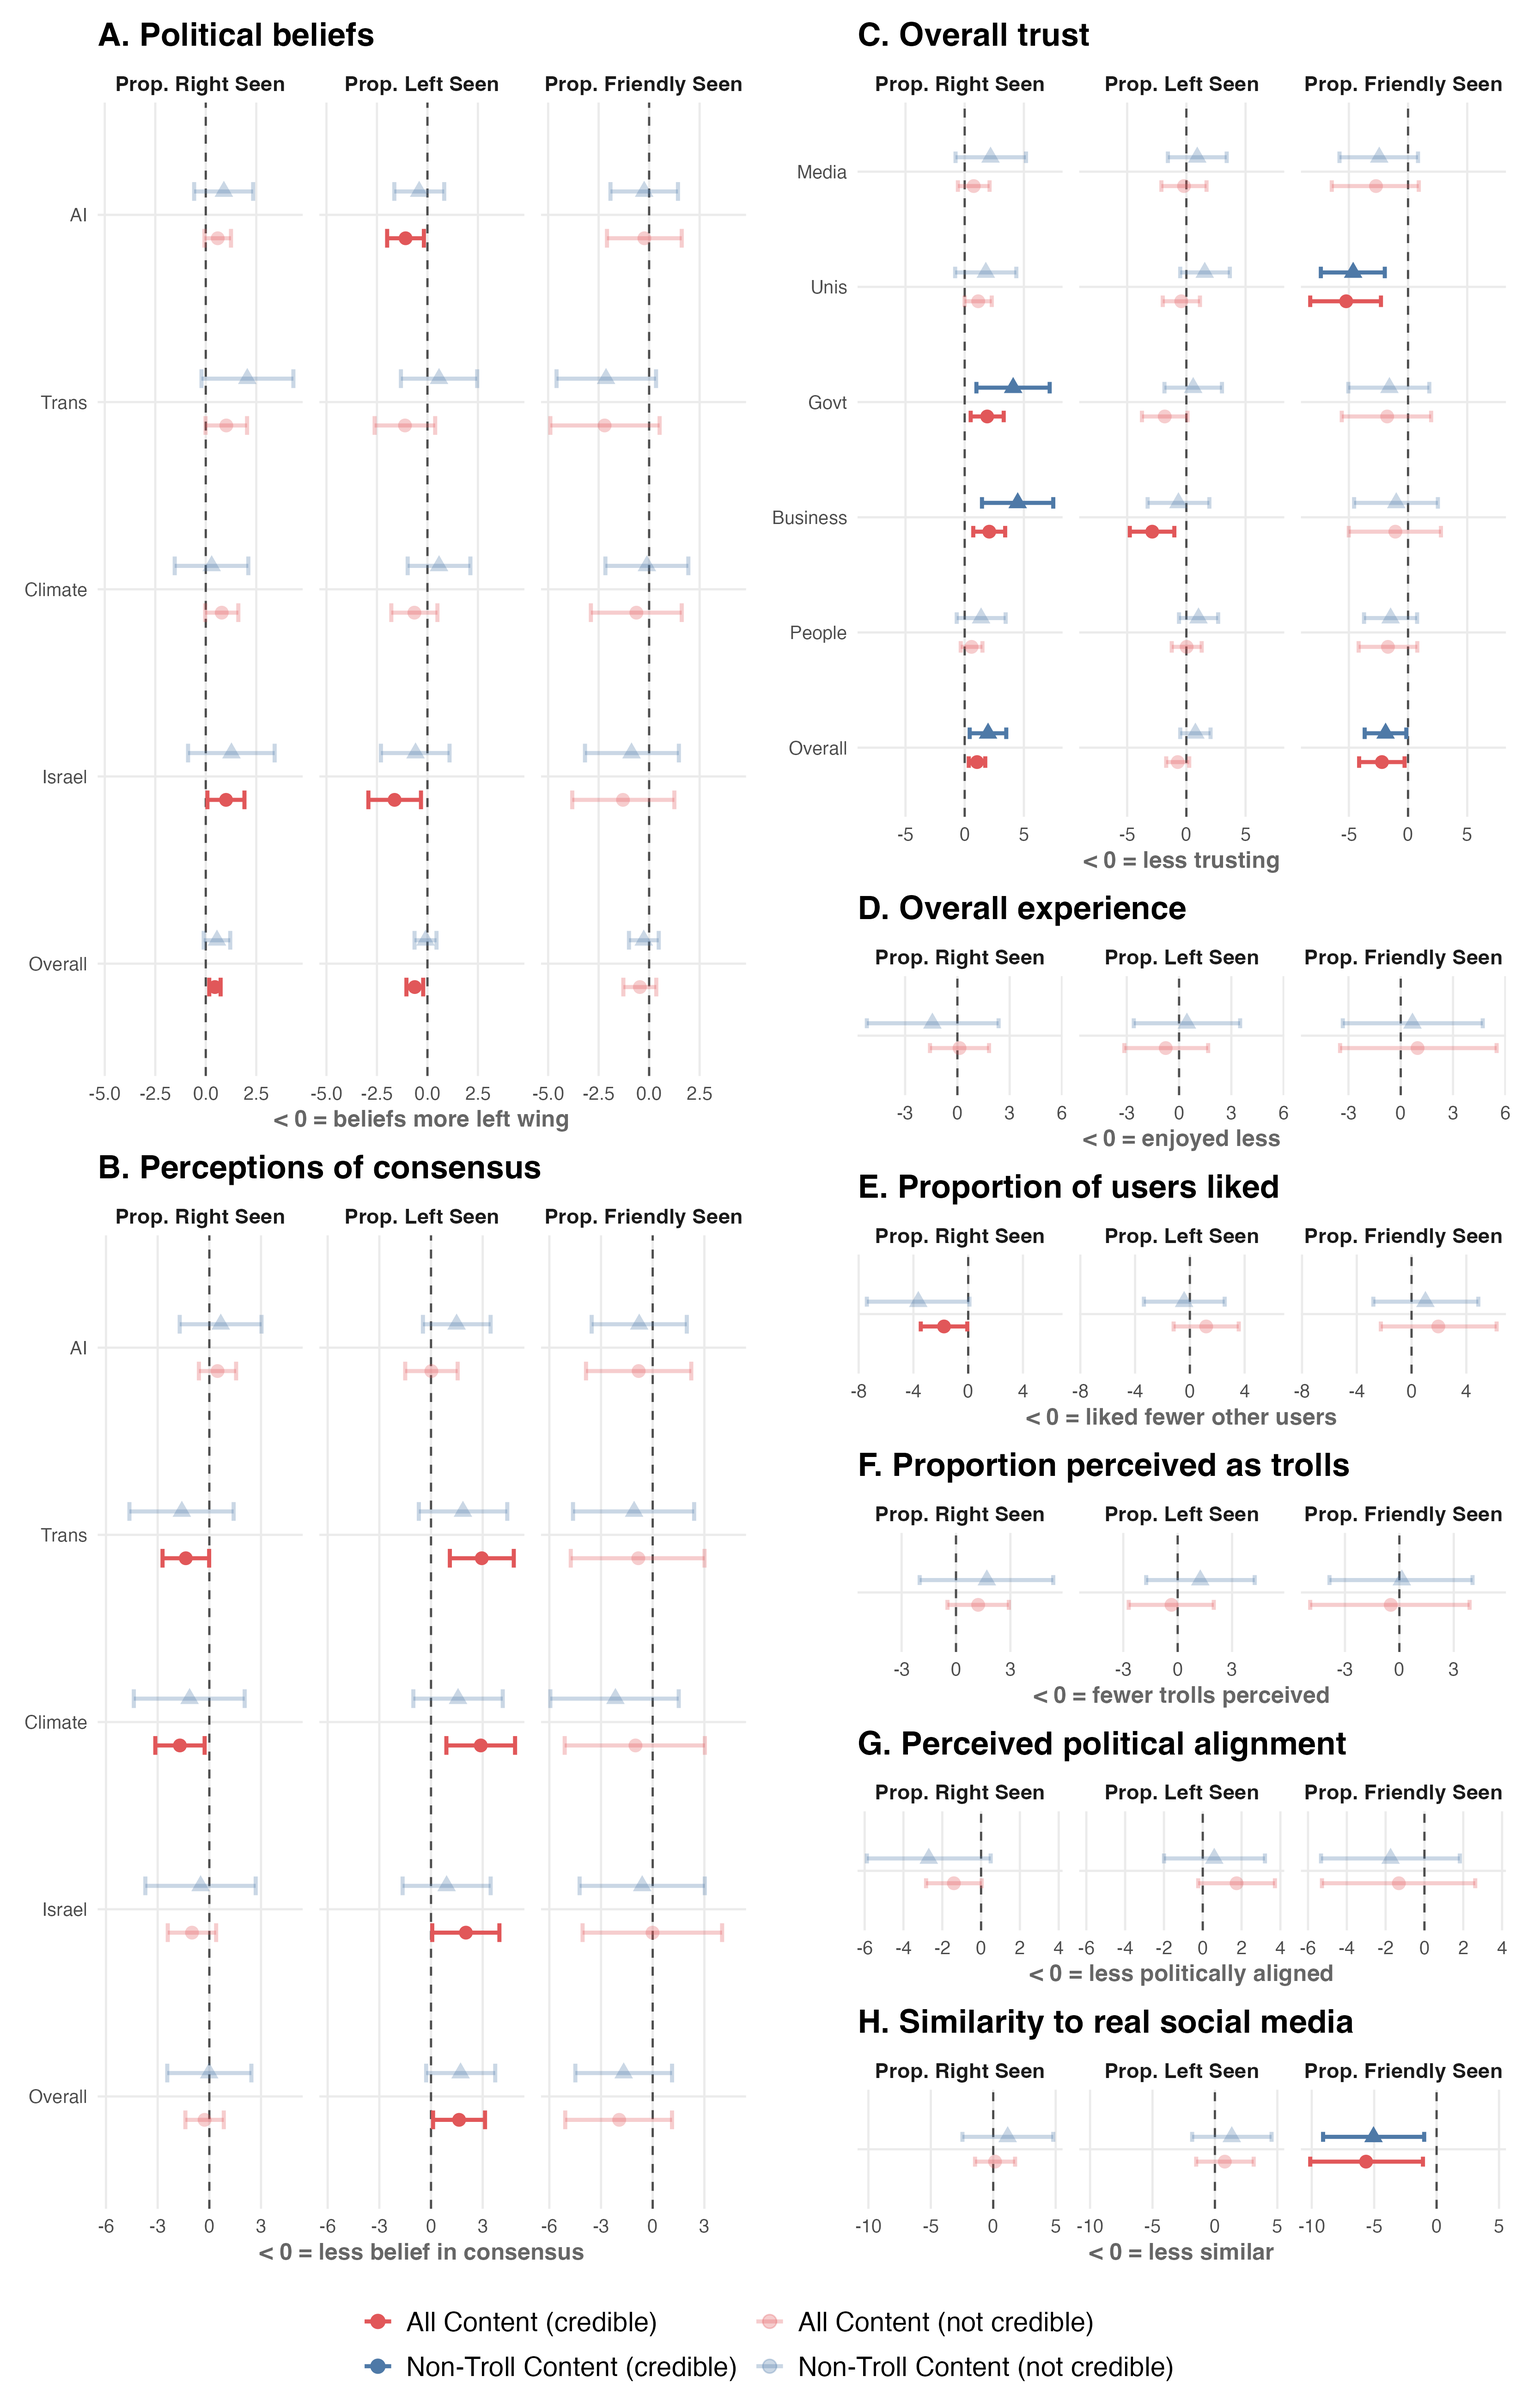
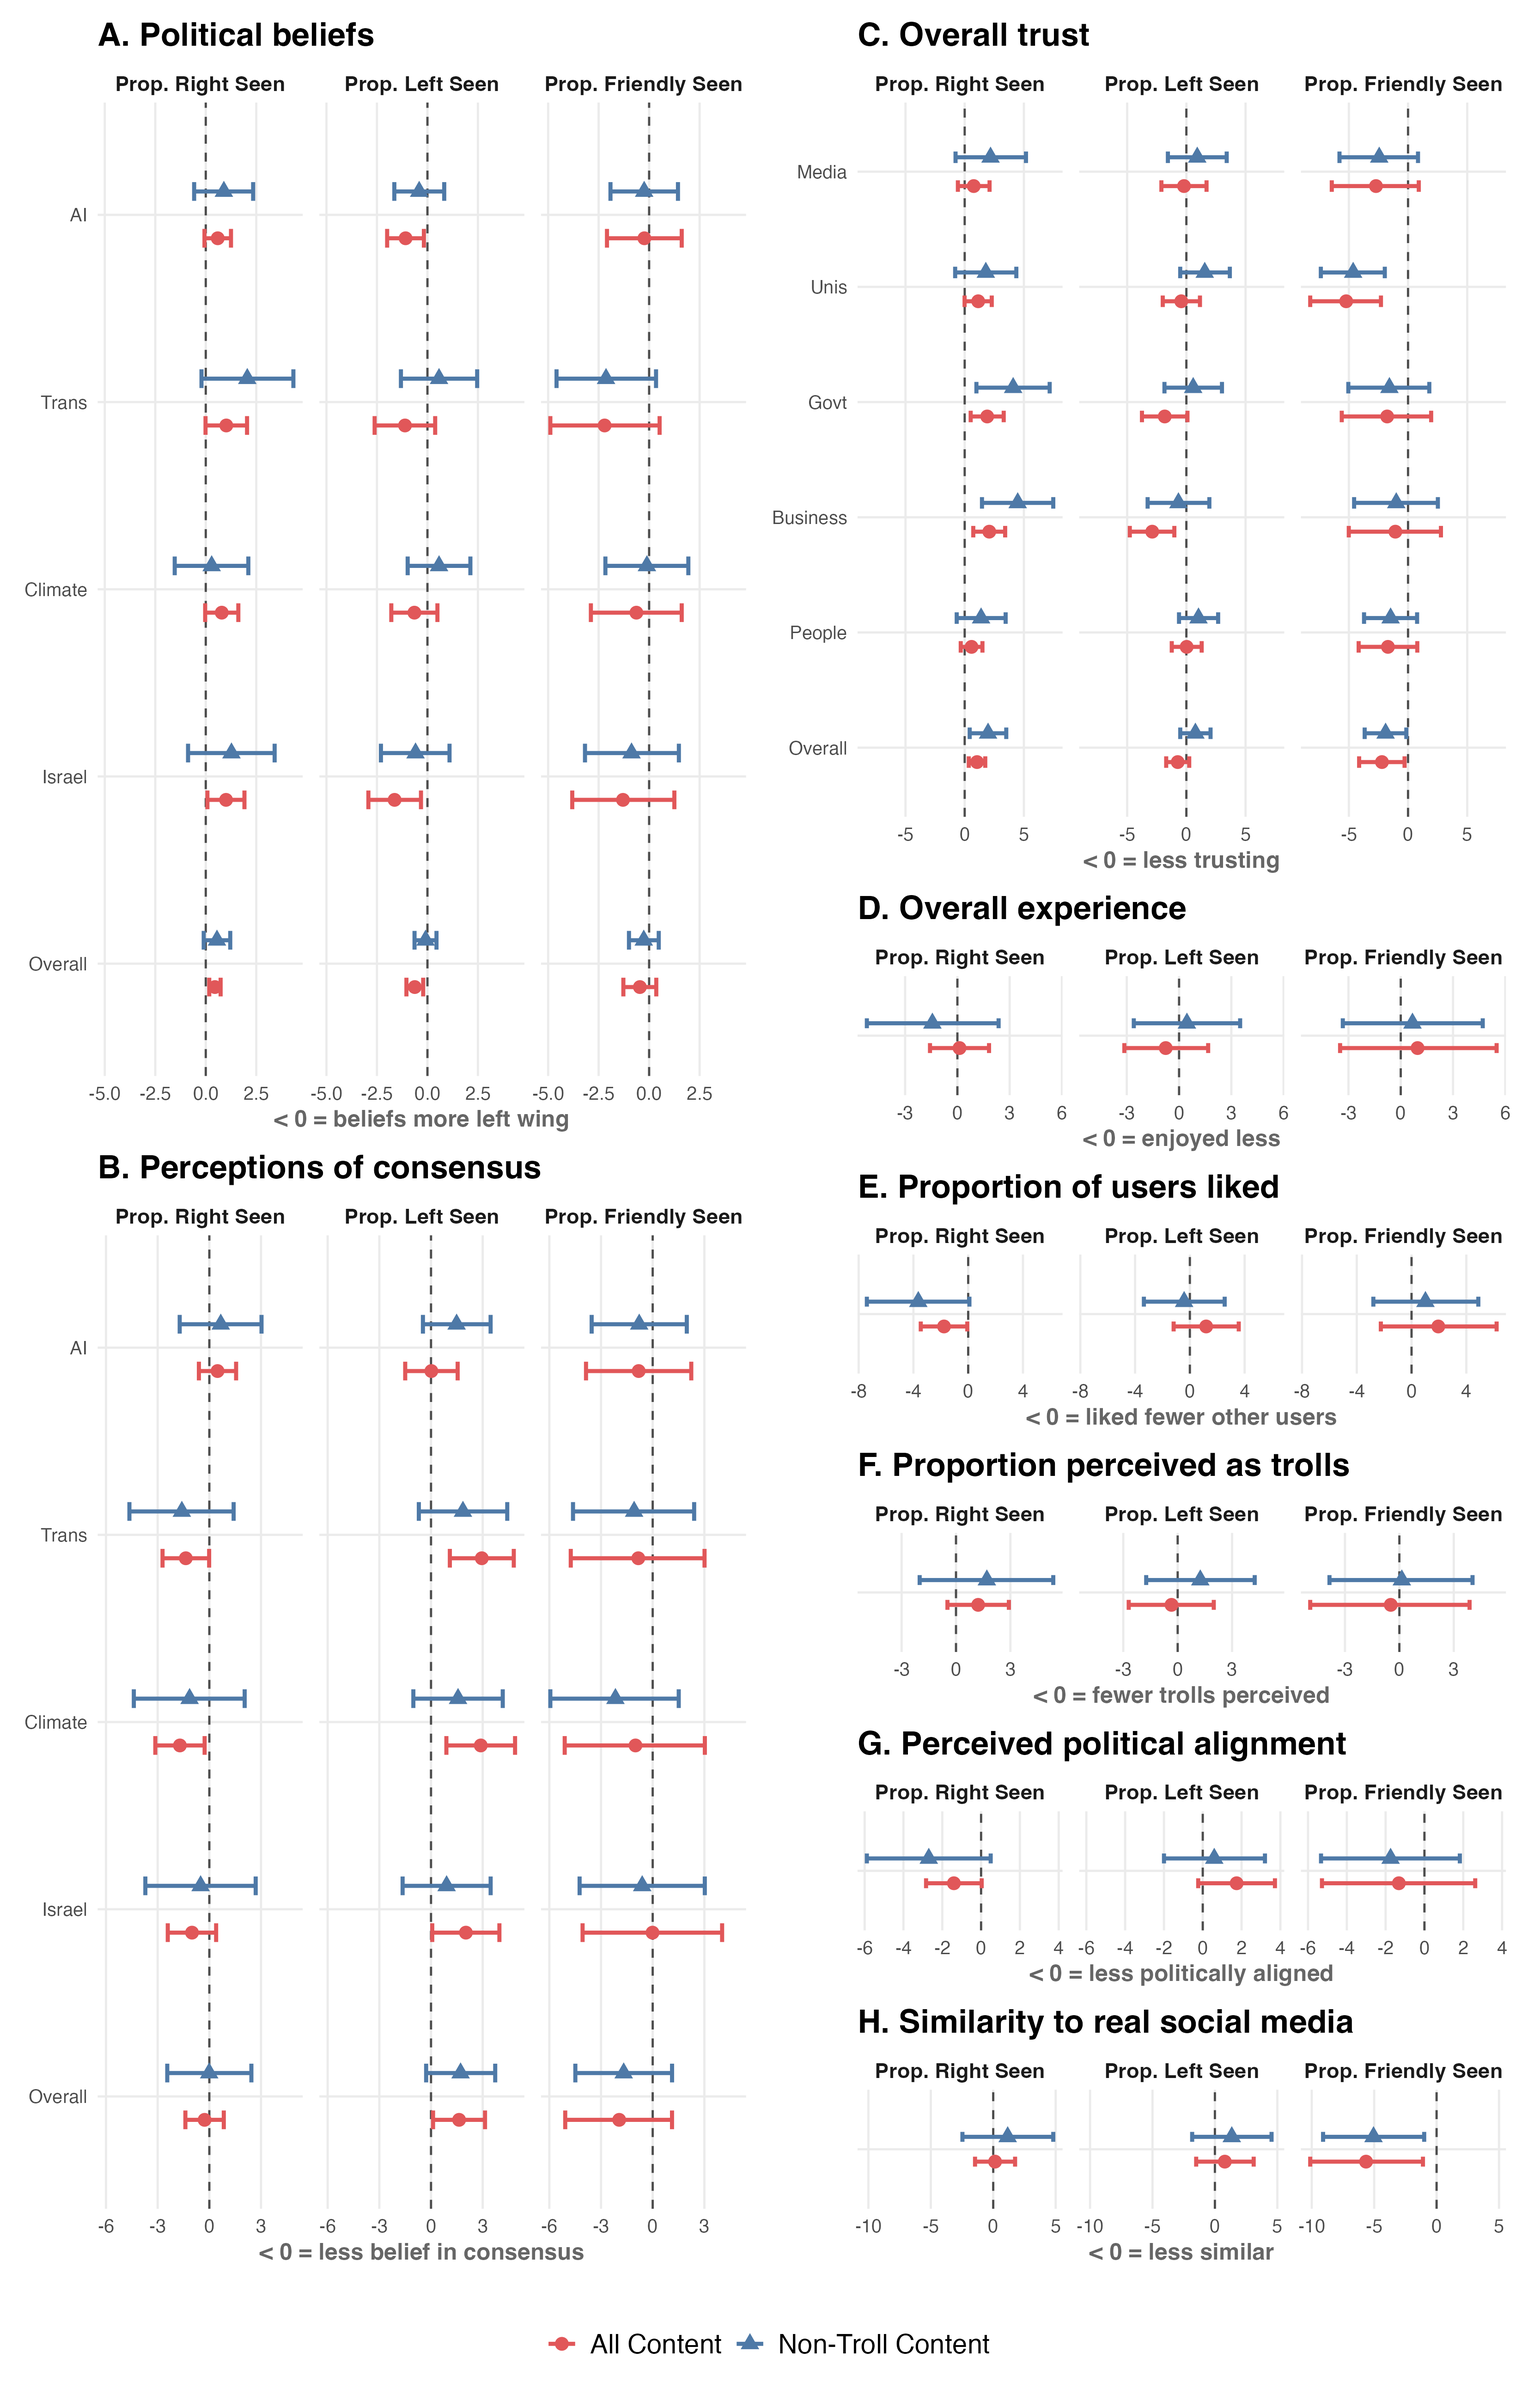
rm transparency in posts-seen

diff --git a/analysis/03_linear-modelling.html b/analysis/03_linear-modelling.html
@@ -200,7 +200,7 @@ sample estimates:
 <h2 class="anchored" data-anchor-id="what-impact-does-seeing-troll-initated-content-have-on-our-measures-and-how-does-this-compare-to-condition-effects">What impact does seeing troll-initated content have on our measures? And how does this compare to condition effects?</h2>
 <p>We tested whether changes in each measure could be predicted by the type of content people saw: the proportion of friendly content, right-wing content or left-wing content.</p>
 <p>We then repeated this analysis excluding content from troll-initiated conversations (defined as troll posts and any participant replies to those posts), to test whether the overall shift in discourse predicted outcomes above and beyond direct troll influence. Because troll posts were absent from the control condition by design, this analysis was restricted to participants in the and conditions. Troll-initiated content accounted for approximately 16% of posts seen by users in these conditions.</p>
-<p>The Figure below shows the posterior coefficients for each content-based predictor (<code>Right'',</code>Left”, ``Friendly’’) across all outcome measures, comparing models fitted on all content to models fitted on non-troll-initiated content only. Each model also included the corresponding before-measurement as a covariate, so coefficients reflect change in each measure rather than absolute levels. Points that are transparent indicate credible intervals that overlap zero. This analysis was not conducted for relative belief or affective polarisation measures, as these showed no credible condition effects.</p>
+<p>The Figure below shows the posterior coefficients for each content-based predictor (<code>Right'',</code>Left”, ``Friendly’’) across all outcome measures, comparing models fitted on all content to models fitted on non-troll-initiated content only. Each model also included the corresponding before-measurement as a covariate, so coefficients reflect change in each measure rather than absolute levels. Red circles show models fitted on all content and blue triangles models fitted on non-troll-initiated content; error bars are 95% credible intervals. This analysis was not conducted for relative belief or affective polarisation measures, as these showed no credible condition effects.</p>
 <div class="cell">
 <div class="cell-output cell-output-stdout">
 <pre><code># A tibble: 2 × 4
